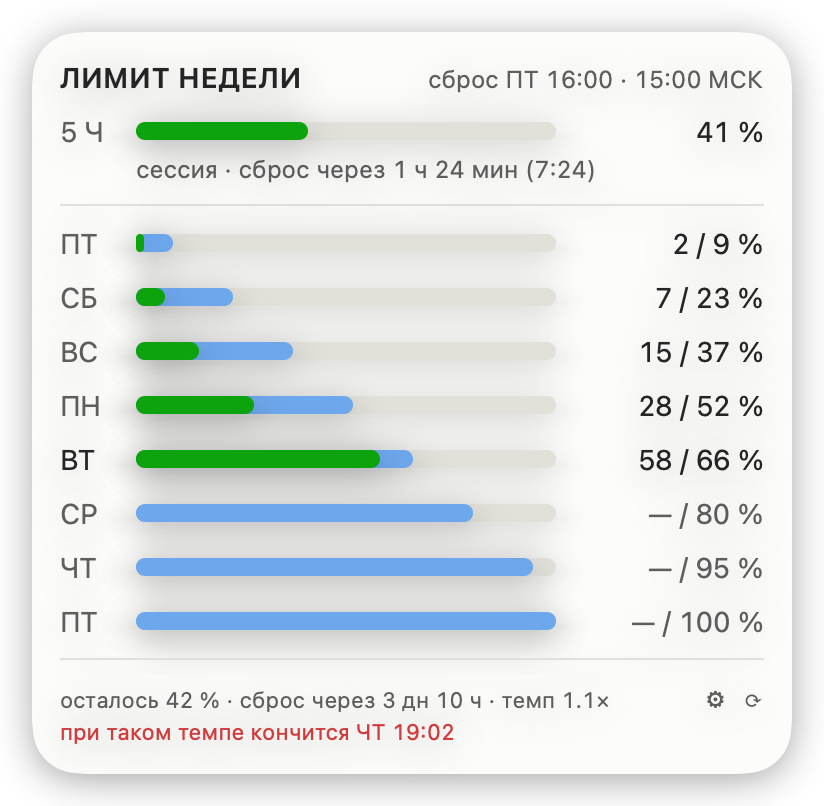
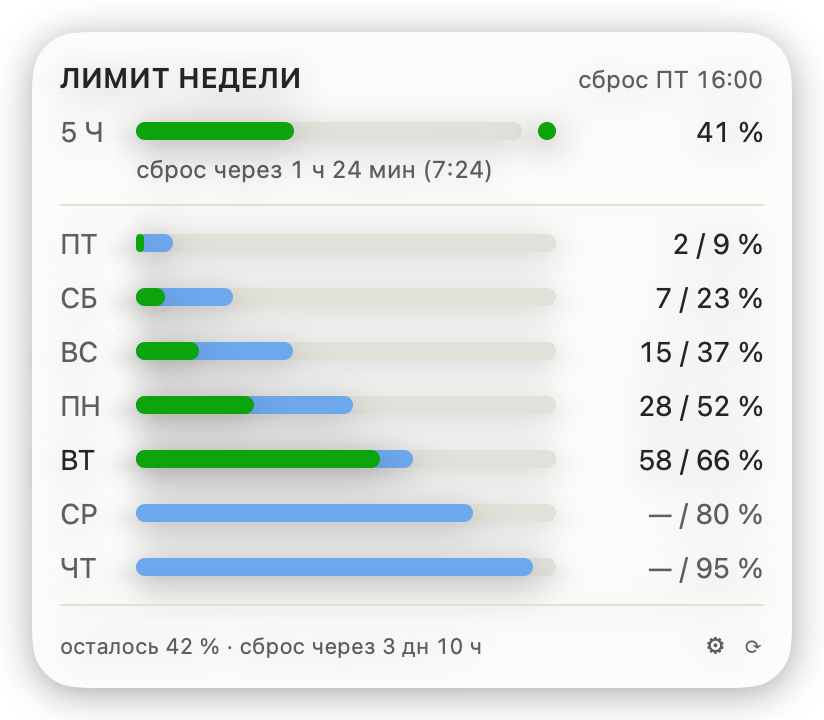
Свёл пометку об источнике к кружку в панели

diff --git a/Sources/ClaudeWeekApp/PopoverView.swift b/Sources/ClaudeWeekApp/PopoverView.swift
@@ -27,7 +27,6 @@ struct PopoverView: View {
                     now: model.now,
                     criticalThreshold: model.config.thresholds.critical,
                     resetDisplay: appearance.sessionReset,
-                    showLabel: appearance.showSessionLabel,
                     source: model.sourceState,
                     sourceHint: model.sourceHint,
                     calendar: model.config.calendar,
@@ -68,6 +67,13 @@ struct PopoverView: View {
 
     // MARK: Заголовок
 
+    /// Кружок источника живёт в строке сессии, а когда её нет — в заголовке.
+    /// Без строки сессии панель остаётся именно в тех случаях, когда знать
+    /// источник важнее всего: локальный режим сессии не считает вовсе.
+    private var showsSessionRow: Bool {
+        appearance.showSession && model.session != nil
+    }
+
     private var header: some View {
         VStack(alignment: .leading, spacing: 4) {
             HStack(alignment: .firstTextBaseline, spacing: 6) {
@@ -88,6 +94,14 @@ struct PopoverView: View {
 
                 Spacer(minLength: 4)
 
+                if !showsSessionRow {
+                    // Кружок не текст, и по базовой линии его равнять нечем:
+                    // без поправки он сел бы на неё донышком и выглядел бы
+                    // просевшим относительно цифр рядом.
+                    SourceDot(state: model.sourceState, hint: model.sourceHint)
+                        .alignmentGuide(.firstTextBaseline) { $0[.bottom] - 1 }
+                }
+
                 // Момент сброса — в зоне окна, той же, по которой считаются
                 // сутки. Ни московского времени для сверки, ни прежних
                 // «≈14 % в сутки» здесь нет: строке заголовка хватает одного
@@ -99,17 +113,12 @@ struct PopoverView: View {
                         .foregroundStyle(palette.secondaryText.color)
                 }
             }
-
-            if let note = model.sourceNote {
-                Text(note)
-                    .font(Theme.footerFont)
-                    .foregroundStyle(
-                        model.isEstimate ? palette.warning.color : palette.secondaryText.color
-                    )
-                    .fixedSize(horizontal: false, vertical: true)
-            }
         }
+        // Пометки об источнике под заголовком больше нет — её место занял
+        // кружок. VoiceOver цвет с заливкой не читает, поэтому источник он
+        // получает подсказкой, и только когда кружок стоит здесь.
         .accessibilityElement(children: .combine)
+        .accessibilityHint(showsSessionRow ? "" : model.sourceState.spokenName)
     }
 
     // MARK: Дни

diff --git a/Sources/ClaudeWeekApp/SessionRow.swift b/Sources/ClaudeWeekApp/SessionRow.swift
@@ -43,10 +43,6 @@ struct SessionRow: View {
     /// Каким концом подписан сброс: сколько осталось, во сколько наступит
     /// или и то, и другое.
     let resetDisplay: SessionResetDisplay
-    /// Называть ли подпись словом «сессия». Слева от полосы стоит «5 Ч», и
-    /// повторять то же самое словами нужно не всем. Час сброса остаётся
-    /// в любом случае — он и есть смысл подписи.
-    let showLabel: Bool
     /// Откуда цифры панели. Кружок висит здесь, а не в заголовке: строка
     /// сессии есть почти всегда, когда сервер отвечает, и глаз находит её
     /// первой.
@@ -113,16 +109,13 @@ struct SessionRow: View {
         )
     }
 
-    /// Без метки исчерпанная сессия говорит «лимит исчерпан»: голое
-    /// «исчерпана» осталось бы без подлежащего, а молчать о том, что полоса
-    /// упёрлась в потолок, нельзя.
+    /// Слова «сессия» в подписи нет: слева от полосы и так стоит «5 Ч». Но
+    /// исчерпанная говорит «лимит исчерпан», а не голое «исчерпана» — иначе
+    /// подлежащего не остаётся, а молчать о полосе в потолке нельзя.
     private var caption: String {
-        if session.isExhausted {
-            return showLabel
-                ? "сессия исчерпана · отпустит \(reset)"
-                : "лимит исчерпан · отпустит \(reset)"
-        }
-        return showLabel ? "сессия · сброс \(reset)" : "сброс \(reset)"
+        session.isExhausted
+            ? "лимит исчерпан · отпустит \(reset)"
+            : "сброс \(reset)"
     }
 
     private var voiceOverLabel: String {

diff --git a/Sources/ClaudeWeekApp/SettingsView.swift b/Sources/ClaudeWeekApp/SettingsView.swift
@@ -250,18 +250,16 @@ private struct AppearanceSettings: View {
 
             Section("Что показывать") {
                 Toggle("Строку пятичасовой сессии", isOn: appearance.showSession)
-                Toggle("Слово «сессия» в её подписи", isOn: appearance.showSessionLabel)
-                    .disabled(!model.config.appearance.showSession)
                 Toggle("Прогноз «кончится в …»", isOn: appearance.showForecast)
-                Toggle("Пометку «разбивка по суткам — оценка»", isOn: appearance.showSourceNote)
                 Picker("Строка меню", selection: $model.config.menuBarStyle) {
                     Text("Полоса и процент").tag(MenuBarStyle.percent)
                     Text("Только полоса").tag(MenuBarStyle.compact)
                 }
                 Text("""
-                Пометку об оценке видно только там, где цифры и правда \
-                приблизительные. Сбои и возраст данных она не прячет: \
-                «нет сети» и «данные 20 мин назад» панель говорит всегда.
+                Откуда взяты цифры, говорит кружок рядом с полосой сессии: \
+                залитый зелёный — ответ сервера, залитый жёлтый — он же, но \
+                из кеша, контурный красный — локальная оценка. Наведите на \
+                него, и панель скажет, что именно случилось.
                 """)
                 .font(.caption)
                 .foregroundStyle(.secondary)
@@ -306,7 +304,7 @@ private struct AppearanceSettings: View {
             display: model.config.appearance.sessionReset,
             calendar: model.config.calendar
         )
-        return "сессия · сброс \(reset)"
+        return "сброс \(reset)"
     }
 
     private var themeHint: String {

diff --git a/Sources/ClaudeWeekCore/Config.swift b/Sources/ClaudeWeekCore/Config.swift
@@ -72,10 +72,6 @@ public struct AppearanceConfig: Codable, Sendable, Equatable {
     public var cornerRadius: Double
     /// Строка пятичасовой сессии над сутками.
     public var showSession: Bool
-    /// Слово «сессия» в подписи под её полосой. Слева от полосы и так стоит
-    /// «5 Ч», и метка повторяет уже сказанное — но час сброса рядом с ней
-    /// остаётся в любом случае.
-    public var showSessionLabel: Bool
     /// Вторая строка футера с прогнозом «кончится в …».
     public var showForecast: Bool
     /// Каким концом подписан сброс сессии.
@@ -87,7 +83,6 @@ public struct AppearanceConfig: Codable, Sendable, Equatable {
         panelTintOpacity: Double = 0.18,
         cornerRadius: Double = 12,
         showSession: Bool = true,
-        showSessionLabel: Bool = true,
         showForecast: Bool = true,
         sessionReset: SessionResetDisplay = .relative
     ) {
@@ -96,7 +91,6 @@ public struct AppearanceConfig: Codable, Sendable, Equatable {
         self.panelTintOpacity = panelTintOpacity
         self.cornerRadius = cornerRadius
         self.showSession = showSession
-        self.showSessionLabel = showSessionLabel
         self.showForecast = showForecast
         self.sessionReset = sessionReset
     }
@@ -115,8 +109,6 @@ public struct AppearanceConfig: Codable, Sendable, Equatable {
                 ?? d.panelTintOpacity,
             cornerRadius: try c.decodeIfPresent(Double.self, forKey: .cornerRadius) ?? d.cornerRadius,
             showSession: try c.decodeIfPresent(Bool.self, forKey: .showSession) ?? d.showSession,
-            showSessionLabel: try c.decodeIfPresent(Bool.self, forKey: .showSessionLabel)
-                ?? d.showSessionLabel,
             showForecast: try c.decodeIfPresent(Bool.self, forKey: .showForecast) ?? d.showForecast,
             sessionReset: try c.decodeIfPresent(SessionResetDisplay.self, forKey: .sessionReset)
                 ?? d.sessionReset

diff --git a/README.md b/README.md
@@ -183,10 +183,10 @@ Claude Code из Keychain (запись `Claude Code-credentials`) и потом
   за ночь не рассасывается тоже.
 - **Работа в три ночи целиком идёт в перерасход.** Плана на этот час нет.
   Если так выходит регулярно — раздвиньте рабочий день в настройках.
-- **Темп в футере — то же самое одним числом.** `1.0×` — вровень, `1.4×` —
-  при таком темпе лимит кончится раньше сброса, и вторая строка футера
-  скажет, во сколько именно. Момент ищется тоже по рабочим часам: обещать
-  исчерпание в четыре утра, когда никто не работает, бессмысленно.
+- **Перерасход виден по расхождению полос**, а когда он ведёт к беде — второй
+  строкой футера: «при таком темпе кончится ПТ 15:57». Момент ищется тоже по
+  рабочим часам: обещать исчерпание в четыре утра, когда никто не работает,
+  бессмысленно.
 
 Пятичасовая сессия к этому расчёту отношения не имеет: она сбрасывается своим
 чередом, и упереться в неё можно на любой неделе, даже нетронутой.
@@ -300,6 +300,7 @@ Claude Code из Keychain (запись `Claude Code-credentials`) и потом
 | `appearance.panelTintOpacity` | `0.18` | плотность вуали поверх материала, 0…1 |
 | `appearance.cornerRadius` | `12` | скругление углов панели, pt |
 | `appearance.showSession` / `.showForecast` | `true` / `true` | показывать строку сессии и прогноз |
+| `appearance.showSessionLabel` | `true` | слово «сессия» в подписи под её полосой; без него остаётся один час сброса |
 | `appearance.sessionReset` | `relative` | подпись сброса сессии: `relative` («через 1 ч 12 мин»), `absolute` («в 14:35») или `both` |
 
 Незнакомые и пропущенные ключи не ломают запуск: недостающее берётся из
@@ -325,19 +326,33 @@ Claude Code из Keychain (запись `Claude Code-credentials`) и потом
 
 Официальный ответ содержит одно число на всю неделю — разбивки по суткам в нём
 нет. Поэтому итог сверху точный, а форму полос приложение восстанавливает по
-локальным транскриптам и масштабирует к официальному числу. В панели это
-подписано: «официальный итог, разбивка по суткам — оценка».
+локальным транскриптам и масштабирует к официальному числу.
+
+Откуда взяты цифры, говорит **кружок рядом с полосой сессии** — а когда строки
+сессии нет, он переезжает в заголовок, к часу сброса:
+
+| Кружок | Что значит |
+|---|---|
+| зелёный, залитый | свежий ответ сервера — то же число, что в `/usage` |
+| жёлтый, залитый | цифры сервера, но из кеша: сеть или авторизация отвалились |
+| красный, контурный | локальная оценка по транскриптам |
+| серый, контурный | данных нет вовсе — первый запуск или отказ без кеша |
+
+Форма дублирует цвет намеренно: зелёный с красным при дейтеранопии почти
+сливаются, а «залито или пусто» видно всегда. Наведите на кружок — и панель
+скажет словами, что именно случилось: «нет сети», «данные 20 мин назад»,
+«официальный итог, разбивка по суткам — оценка».
 
 Когда официальный источник недоступен — нет сети, не авторизован Claude Code —
-приложение молча переходит на локальную оценку и помечает цифру как
-приблизительную: `≈64%`.
+приложение молча переходит на локальную оценку и помечает цифру в строке меню
+как приблизительную: `≈64%`.
 
 ### Свежесть
 
-Данные бывают старыми, и панель об этом говорит: если снимку больше двух минут,
-под заголовком появляется «данные 6 мин назад». Появиться этой строке есть от
-чего — после отказа сервера виджет держит паузу (1 → 2 → 4 → 8 → 15 минут) и всё
-это время показывает последнее удачное число.
+Данные бывают старыми, и кружок об этом говорит: если снимку больше двух минут,
+он желтеет, а подсказка называет возраст — «данные 6 мин назад». Пожелтеть ему
+есть от чего — после отказа сервера виджет держит паузу (1 → 2 → 4 → 8 → 15
+минут) и всё это время показывает последнее удачное число.
 
 Держит, но не бесконечно: через 15 минут после последнего удачного ответа
 старое число отбрасывается, и в режиме `auto` панель уходит на локальную оценку.

diff --git a/docs/PLAN.md b/docs/PLAN.md
@@ -501,15 +501,16 @@ codesign --force --sign - ClaudeWeek.app     # ad-hoc подпись
 |---|---|---|
 | Загрузка (нет кеша) | приглушённые полосы-плейсхолдеры, «получаю данные…» | да, без шиммера — статичных плейсхолдеров хватило |
 | Загрузка (есть кеш) | данные из кеша + отметка «обновлено N мин назад» | да, кеш прошлого запуска показывается сразу |
-| Оценка (локальный источник) | значок ≈ у процента, подпись «оценка, не официальные данные» | да |
-| Официальный итог | процент без ≈, подпись «разбивка по суткам — оценка» | да |
+| Оценка (локальный источник) | значок ≈ у процента, подпись «оценка, не официальные данные» | да; подпись стала контурным кружком и его подсказкой |
+| Официальный итог | процент без ≈, подпись «разбивка по суткам — оценка» | да, тем же кружком |
 | Нет авторизации | «нужна авторизация в Claude Code» | частично: текст есть, кнопки «Как починить» нет — в режиме `auto` вместо неё молча включается локальная оценка |
 | Оффлайн | данные из кеша серым + «нет сети, данные от HH:MM» | да, через падение на локальный источник |
 | Скоро сброс (< 2 ч) | футер «сброс через 1 ч 12 мин» акцентом | да |
 | Лимит исчерпан | заголовок красным, значок ⚠, «лимит недели исчерпан» | да |
 
-Текст ошибки от провайдера панель показывает и сейчас — строкой под заголовком;
-специализированные подсказки с кнопкой появятся вместе с сетевыми ошибками.
+Текст ошибки от провайдера панель показывает и сейчас — подсказкой кружка
+источника; специализированные подсказки с кнопкой появятся вместе с сетевыми
+ошибками.
 
 ### 5.6 Доступность
 

diff --git a/docs/ARCHITECTURE.md b/docs/ARCHITECTURE.md
@@ -135,6 +135,7 @@ SwiftUI` — значит, расчёт просочился в UI или нао
 | `PopoverView.swift` | вёрстка панели: заголовок, сессия, семь строк, футер |
 | `DayBar.swift` | одна двухцветная полоса и строка дня |
 | `SessionRow.swift` | полоса пятичасовой сессии |
+| `SourceDot.swift` | кружок источника: цвет и заливка говорят, свои цифры или чужие |
 | `MenuBarBar.swift` | иконка строки меню: полоса и процент в два этажа |
 | `Theme.swift` | палитры тем, метрики, шрифты, `Ink` и `Palette` |
 | `SettingsWindow.swift` | окно настроек: модель, применение изменений, проверка токена, место рядом с панелью |
@@ -148,8 +149,9 @@ SwiftUI` — значит, расчёт просочился в UI или нао
 
 **Обновление цифр.** `StatusItemController.refresh()` → `provider.fetch()`
 (на фоне) → `model.apply(snapshot)` → SwiftUI перерисовывает панель, а
-`render()` — иконку строки меню. Ошибка → `model.apply(error:)`, панель
-показывает текст под заголовком и, если данные были, помечает их возраст.
+`render()` — иконку строки меню. Ошибка → `model.apply(error:)`, причина уходит
+в подсказку кружка источника: были данные — кружок желтеет и подсказка называет
+ещё и их возраст, не было — гаснет в серый контур.
 
 **Свежесть — одно правило на всех.** Решает `PanelModel.apply(_:at:)`: снимок
 старше `freshFor` (2 минуты) переводит статус в `.stale("данные 6 мин назад")`.

diff --git a/docs/ROADMAP.md b/docs/ROADMAP.md
@@ -267,7 +267,7 @@ ClaudeWeekTests`) на `macos-latest`.
 | Было | Стало |
 |---|---|
 | официальное число во время паузы после отказа отдавалось как свежее — бесконечно | годится 15 минут, потом `auto` уходит на локальную оценку; возраст подписан в панели |
-| снимок помечался моментом запроса, а не моментом ответа | `fetchedAt` — момент наблюдения; «данные 6 мин назад» под заголовком |
+| снимок помечался моментом запроса, а не моментом ответа | `fetchedAt` — момент наблюдения; «данные 6 мин назад» в подсказке кружка источника |
 | «Обновлять раз в» из настроек не применялось до перезапуска | таймер перезапускается на смене интервала |
 | автокалибровка на 1–2 % давала бюджет с ошибкой вдвое | калибруем от 5 % и выше, ниже — держим прежний бюджет |
 | «Бюджет недели» в «О программе» всегда «не подобран» | читается подобранный из кеша, с пометкой, откуда взялся |

diff --git a/docs/API.md b/docs/API.md
@@ -189,7 +189,8 @@ Claude Code обновляет токен сам, и следующая попы
 восстанавливается из локальных транскриптов и масштабируется к официальному
 итогу (решение §2.3 плана): доля каждых суток в локальной стоимости умножается
 на официальный процент. Итог поэтому точный, а полосы — правдоподобные;
-в панели это помечено подписью «официальный итог, разбивка по суткам — оценка».
+в панели про это говорит кружок источника: наведите — и он скажет
+«официальный итог, разбивка по суткам — оценка».
 
 ## Как перепроверить схему
 
